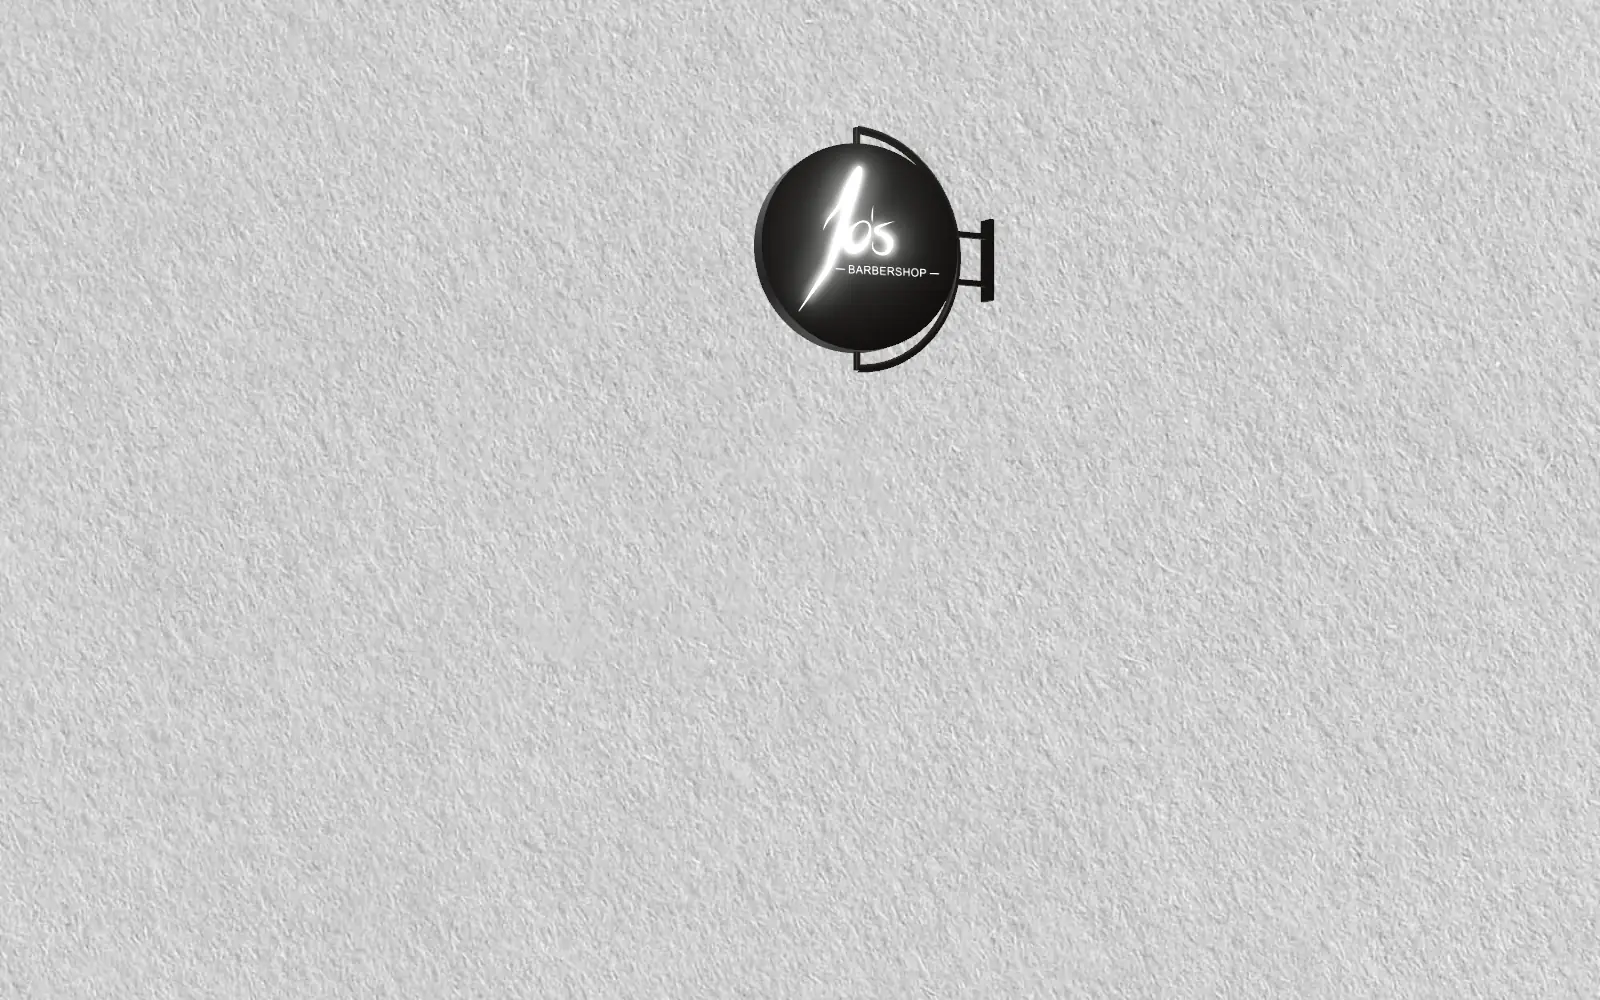
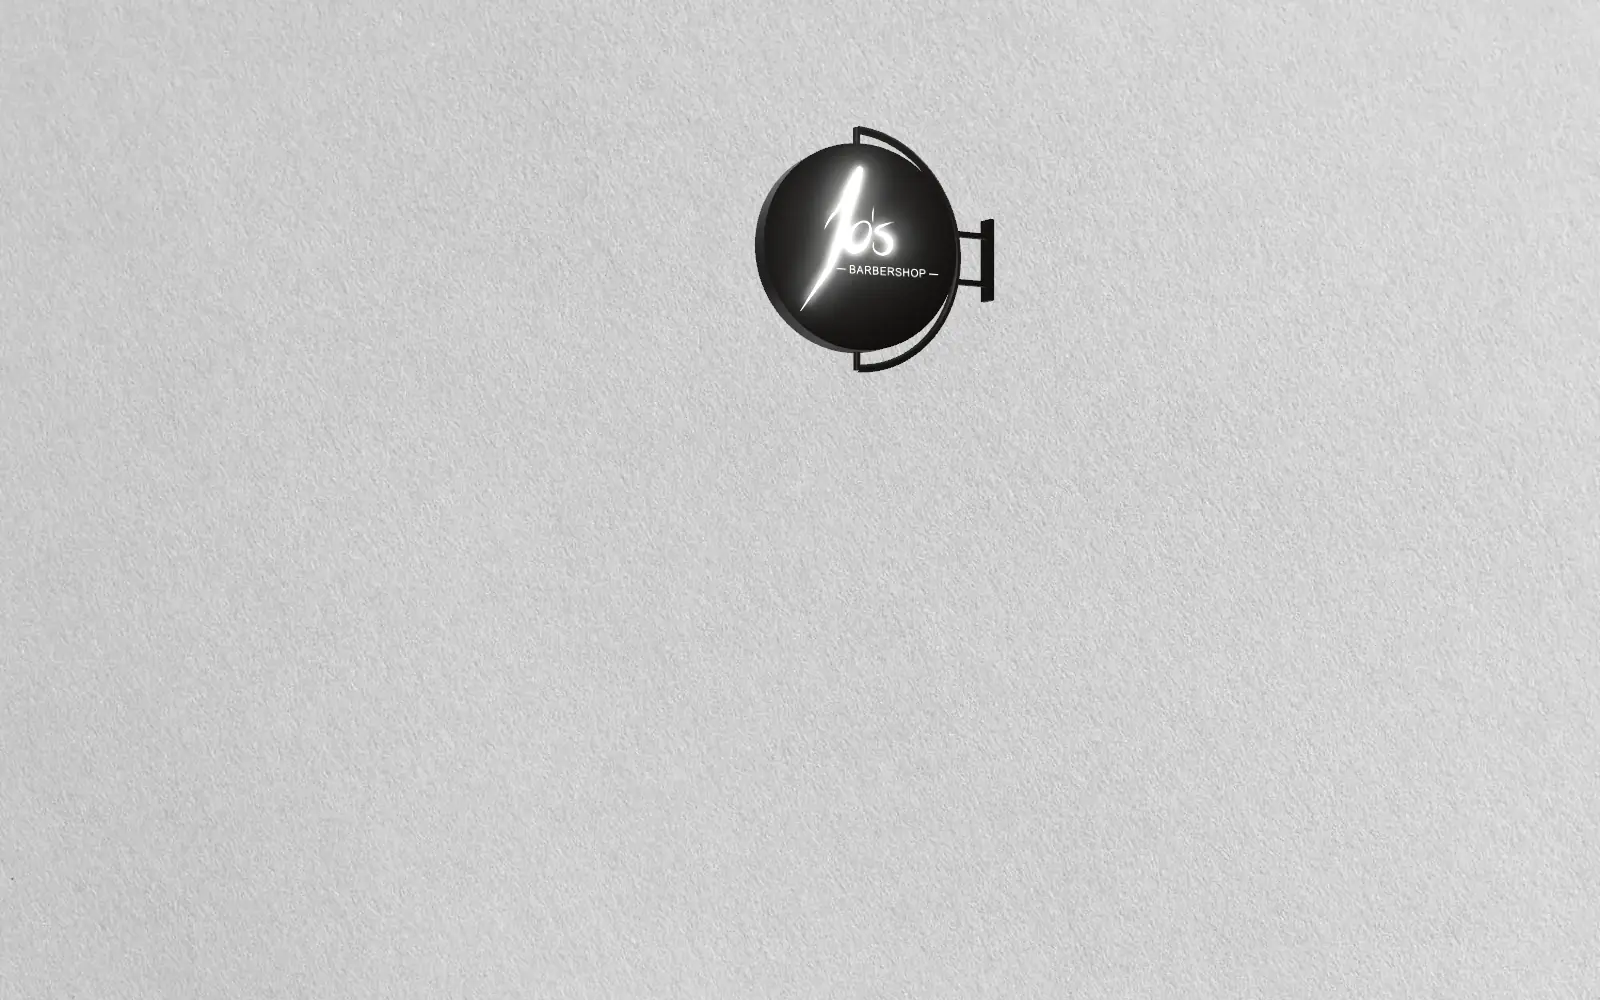
Paper: the finer one, images/white-paper-texture.jpg
- paper.webp is now made from images/white-paper-texture.jpg (2000 x 1333, 240 KB), the scene cuts it to fill the screen as before.
- Paper colour for loading and fog #cecece, new poster on this paper.

Claude-Session: https://claude.ai/code/session_014RsE5kPJajU8rKPppCmMFa

diff --git a/theme/jos-barbershop/assets/js/scene.js b/theme/jos-barbershop/assets/js/scene.js
@@ -40,7 +40,7 @@ const DISC_DEPTH = 0.26;         // thickness of the disc, disc radius = 1
 const BRACKET_RADIUS = 1.16;     // radius of the C shaped bracket
 const BRACKET_TUBE = 0.04;
 const TURN_SPEED = 0.26;         // rad/s, always the same slow turn (one turn in about 24 s)
-const BACKGROUND = 0xcdcdcd;     // the paper (paper.webp, data-paper) while it loads and in the fog, same as --jos-bg
+const BACKGROUND = 0xcecece;     // the paper (paper.webp, data-paper) while it loads and in the fog, same as --jos-bg
 const FACADE_COLOR = 0x5b3517;   // brown ink, same as --jos-line
 const FACADE_OPACITY = 0.9;
 const FACADE_OPACITY_MOBILE = 0.8;   // on phones the wall runs behind the text

diff --git a/theme/jos-barbershop/assets/scss/style.scss b/theme/jos-barbershop/assets/scss/style.scss
@@ -37,7 +37,7 @@ $size-meta: 12px;
 $bp-tablet: 768px;
 
 :root {
-	--jos-bg: #cdcdcd;     // the paper (assets/images/paper.webp) while it loads
+	--jos-bg: #cecece;     // the paper (assets/images/paper.webp) while it loads
 	--jos-ink: #2b1d14;    // dark brown ink
 	--jos-line: #5b3517;   // brown: the lines of the facade and the thin rules
 	--jos-muted: #5e5148;

diff --git a/theme/jos-barbershop/style.css b/theme/jos-barbershop/style.css
@@ -10,7 +10,7 @@ License: Proprietary
 Text Domain: jos-barbershop
 */
 :root {
-  --jos-bg: #cdcdcd;
+  --jos-bg: #cecece;
   --jos-ink: #2b1d14;
   --jos-line: #5b3517;
   --jos-muted: #5e5148;

diff --git a/README.md b/README.md
@@ -59,7 +59,7 @@ Stranica počinje 3D scenom s okruglim znakom trgovine, kao na fasadi (`images/f
 - Nosač i zid stoje mirno, disk se okreće oko okomite osi, kao viseća reklama.
 - Svijetli samo logo ("Jo's" i red BARBERSHOP), disk i nosač ne svijetle.
 - Disk se uvijek okreće istom sporom brzinom (jedan krug za oko 24 sekunde).
-- Pozadina svih stranica je papir (`images/white-paper-texture-2.jpg`, u temi `assets/images/paper.webp`, 1400 px),
+- Pozadina svih stranica je papir (`images/white-paper-texture.jpg`, u temi `assets/images/paper.webp`, 2000 px),
   i iza 3D scene. Linije fasade, trake u lukovima i natpis u temelju su smeđi (`#5b3517`), tekst je tamnosmeđa
   tinta (`#2b1d14`). Pod mišem se otvor prozora ili vrata ispuni prozirnom žutom. Znak ostaje tamnosmeđi metal sa
   svijetlim logom. U lokalu tekst stoji na svijetlom staklu boje papira.
